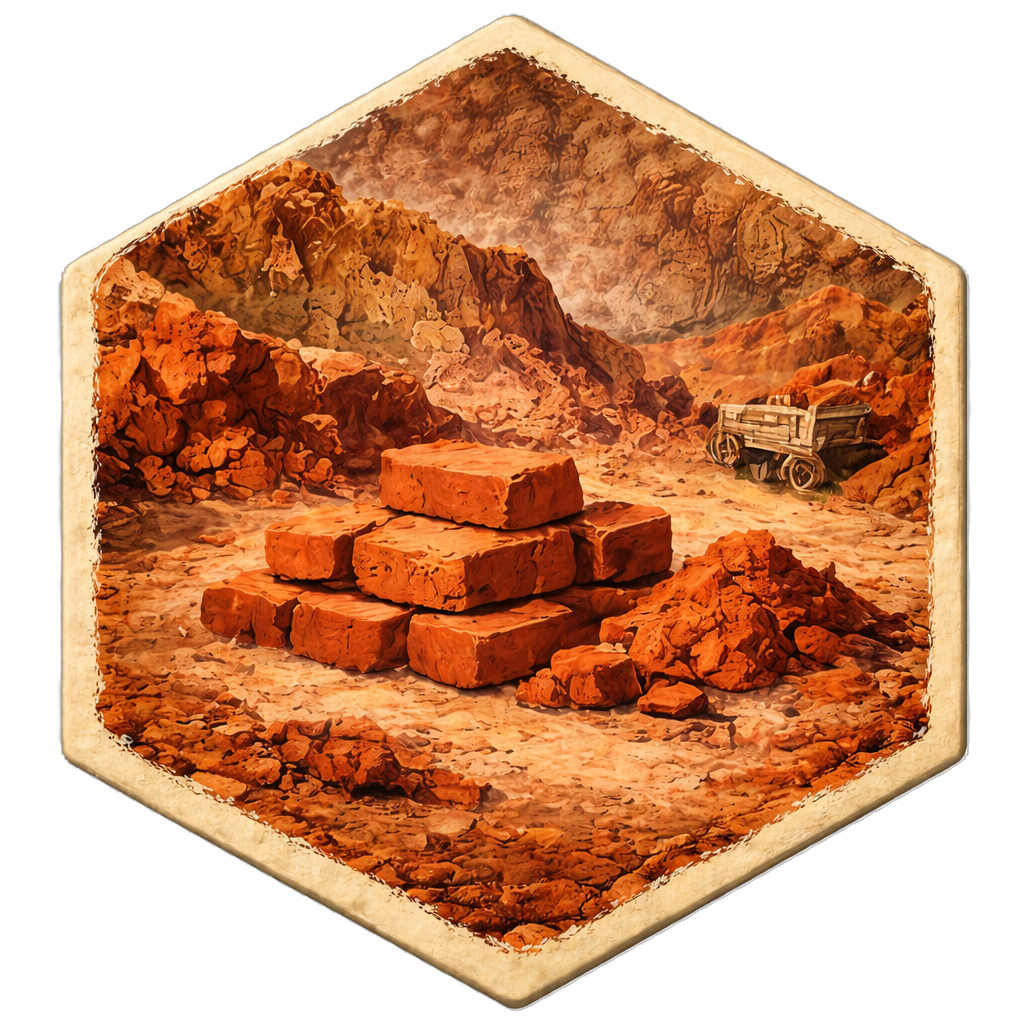
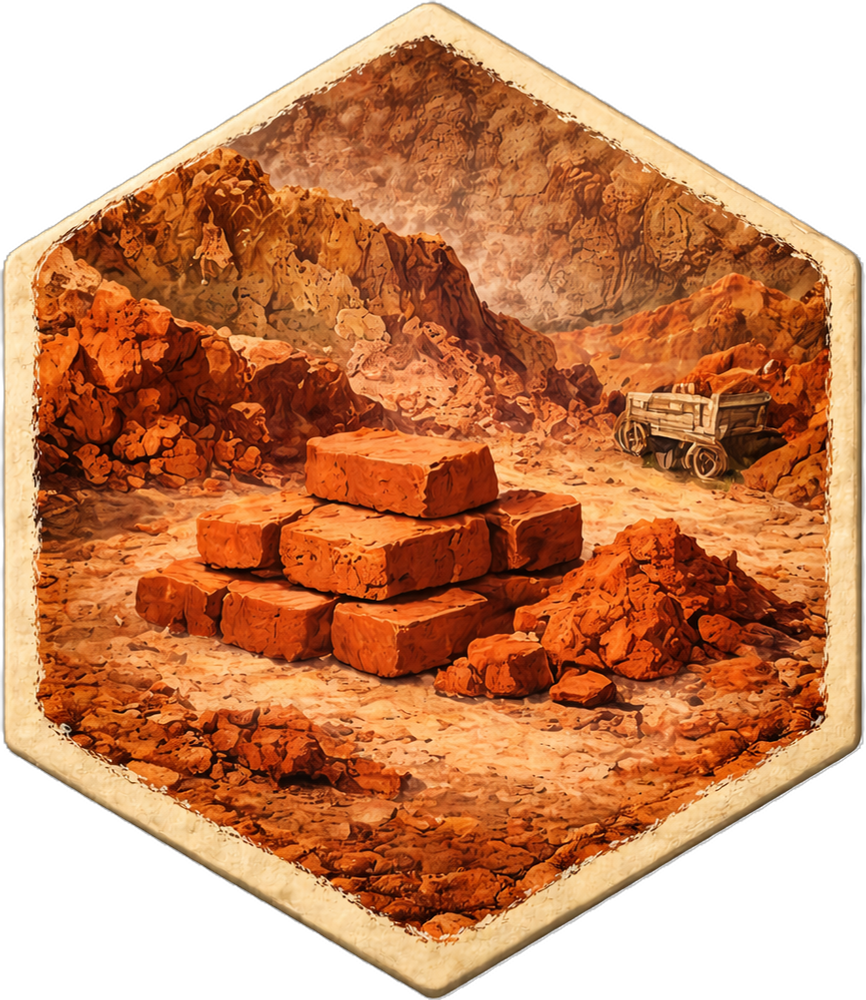
normalised the size of the tiles and made the sea the full height of the game zone

diff --git a/src/components/board/HexTile.tsx b/src/components/board/HexTile.tsx
@@ -1,13 +1,7 @@
 import { useState } from "react";
 import { Hex } from "@/types/catan";
 import { hexToPixel } from "@/lib/hex-utils";
-import {
-  HEX_RESOURCE_COLORS,
-  HEX_SIZE,
-  HEX_TILE_IMAGES,
-  TILE_IMAGE_SOURCE_SIZE,
-  TILE_IMAGE_HEX_BOUNDS,
-} from "@/lib/constants";
+import { HEX_RESOURCE_COLORS, HEX_SIZE, HEX_TILE_IMAGES } from "@/lib/constants";
 import { clsx } from "clsx";
 
 interface HexTileProps {
@@ -24,17 +18,13 @@ for (let i = 0; i < 6; i++) {
 }
 const POLYGON_POINTS = points.map(([x, y]) => `${x},${y}`).join(" ");
 
-// Maps the source PNG's painted hexagon onto the polygon above, so the image sits
-// flush against its neighbours instead of showing its square canvas's letterboxing.
-const { minX, maxX, minY, maxY } = TILE_IMAGE_HEX_BOUNDS;
-const bboxW = maxX - minX;
-const bboxH = maxY - minY;
-const polyW = Math.sqrt(3) * HEX_SIZE;
-const polyH = 2 * HEX_SIZE;
-const IMAGE_WIDTH = (TILE_IMAGE_SOURCE_SIZE * polyW) / bboxW;
-const IMAGE_HEIGHT = (TILE_IMAGE_SOURCE_SIZE * polyH) / bboxH;
-const IMAGE_X = -((minX + maxX) / 2) * (polyW / bboxW);
-const IMAGE_Y = -((minY + maxY) / 2) * (polyH / bboxH);
+// The source PNGs are pre-normalized (see scripts/normalize-tile-art) so every tile's
+// painted hexagon exactly fills its canvas — the image can be placed straight onto the
+// polygon's bounding box with no per-tile offset, and every tile lines up identically.
+const IMAGE_WIDTH = Math.sqrt(3) * HEX_SIZE;
+const IMAGE_HEIGHT = 2 * HEX_SIZE;
+const IMAGE_X = -IMAGE_WIDTH / 2;
+const IMAGE_Y = -IMAGE_HEIGHT / 2;
 
 export function HexTile({ hex, isSelectable, onClick }: HexTileProps) {
   const { x, y } = hexToPixel(hex.q, hex.r);

diff --git a/src/lib/constants.ts b/src/lib/constants.ts
@@ -27,16 +27,6 @@ export const HEX_TILE_IMAGES: Record<HexResource, string> = {
 
 export const BOARD_BACKGROUND_IMAGE = '/images/sea.png';
 
-/**
- * Every tile PNG is a 1024x1024 canvas with the painted hexagon inset by roughly the
- * same margin (measured directly from the source files, they are not a perfect crop).
- * Used to scale/position each <image> so its hexagon lands exactly on the SVG polygon
- * instead of the image's own square canvas — otherwise tiles would show letterboxing
- * and the board would not read as seamless.
- */
-export const TILE_IMAGE_SOURCE_SIZE = 1024;
-export const TILE_IMAGE_HEX_BOUNDS = { minX: 58, maxX: 969, minY: 13, maxY: 1012 };
-
 export const RESOURCE_TYPES: ResourceType[] = ['wood', 'brick', 'sheep', 'wheat', 'ore'];
 
 export const PLAYER_COLORS: PlayerColor[] = ['red', 'blue', 'white', 'orange', 'green', 'brown', 'purple'];

diff --git a/cypress/e2e/board-artwork.cy.ts b/cypress/e2e/board-artwork.cy.ts
@@ -35,7 +35,7 @@ describe('Board artwork', () => {
       const image = $hex.find('[data-cy=hex-image]');
       expect(image, `${resource} hex renders an image`).to.have.length(1);
       expect(image.attr('data-image-src')).to.equal(RESOURCE_IMAGE[resource]);
-      expect($hex.attr('data-image-failed'), 'no fallback flag by default').to.be.undefined;
+      expect($hex.attr('data-image-failed'), 'no fallback flag by default').to.equal(undefined);
     });
     cy.get('[data-cy=hex-fallback-fill]').should('not.exist');
 

diff --git a/src/components/board/GameBoard.tsx b/src/components/board/GameBoard.tsx
@@ -79,7 +79,7 @@ export function GameBoard({
       <svg
         viewBox={`${view.minX} ${view.minY} ${view.w} ${view.h}`}
         preserveAspectRatio="xMidYMid meet"
-        className="w-full h-full max-h-[85vh] drop-shadow-2xl"
+        className="w-full h-full max-h-[100vh] drop-shadow-2xl"
         data-cy="game-board"
       >
         <g id="hex-layer">
